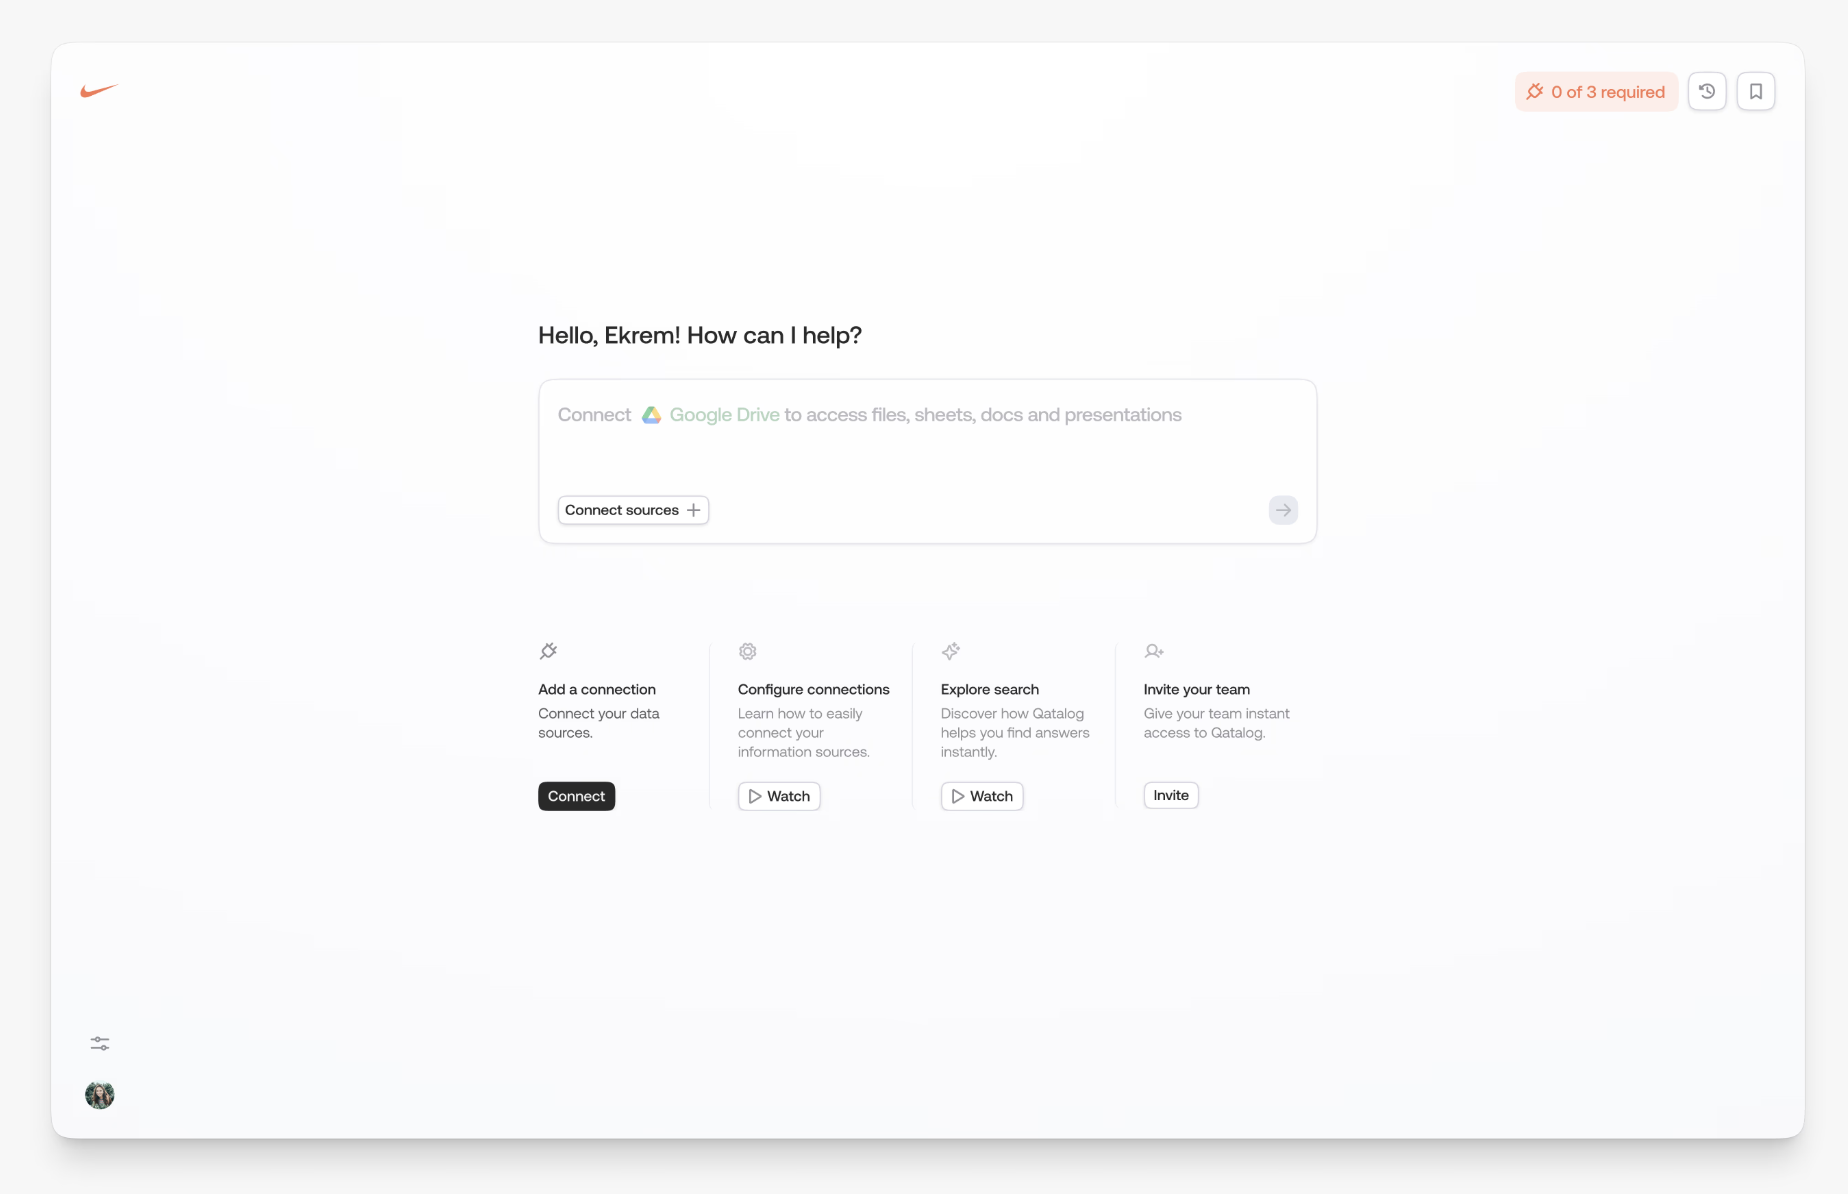
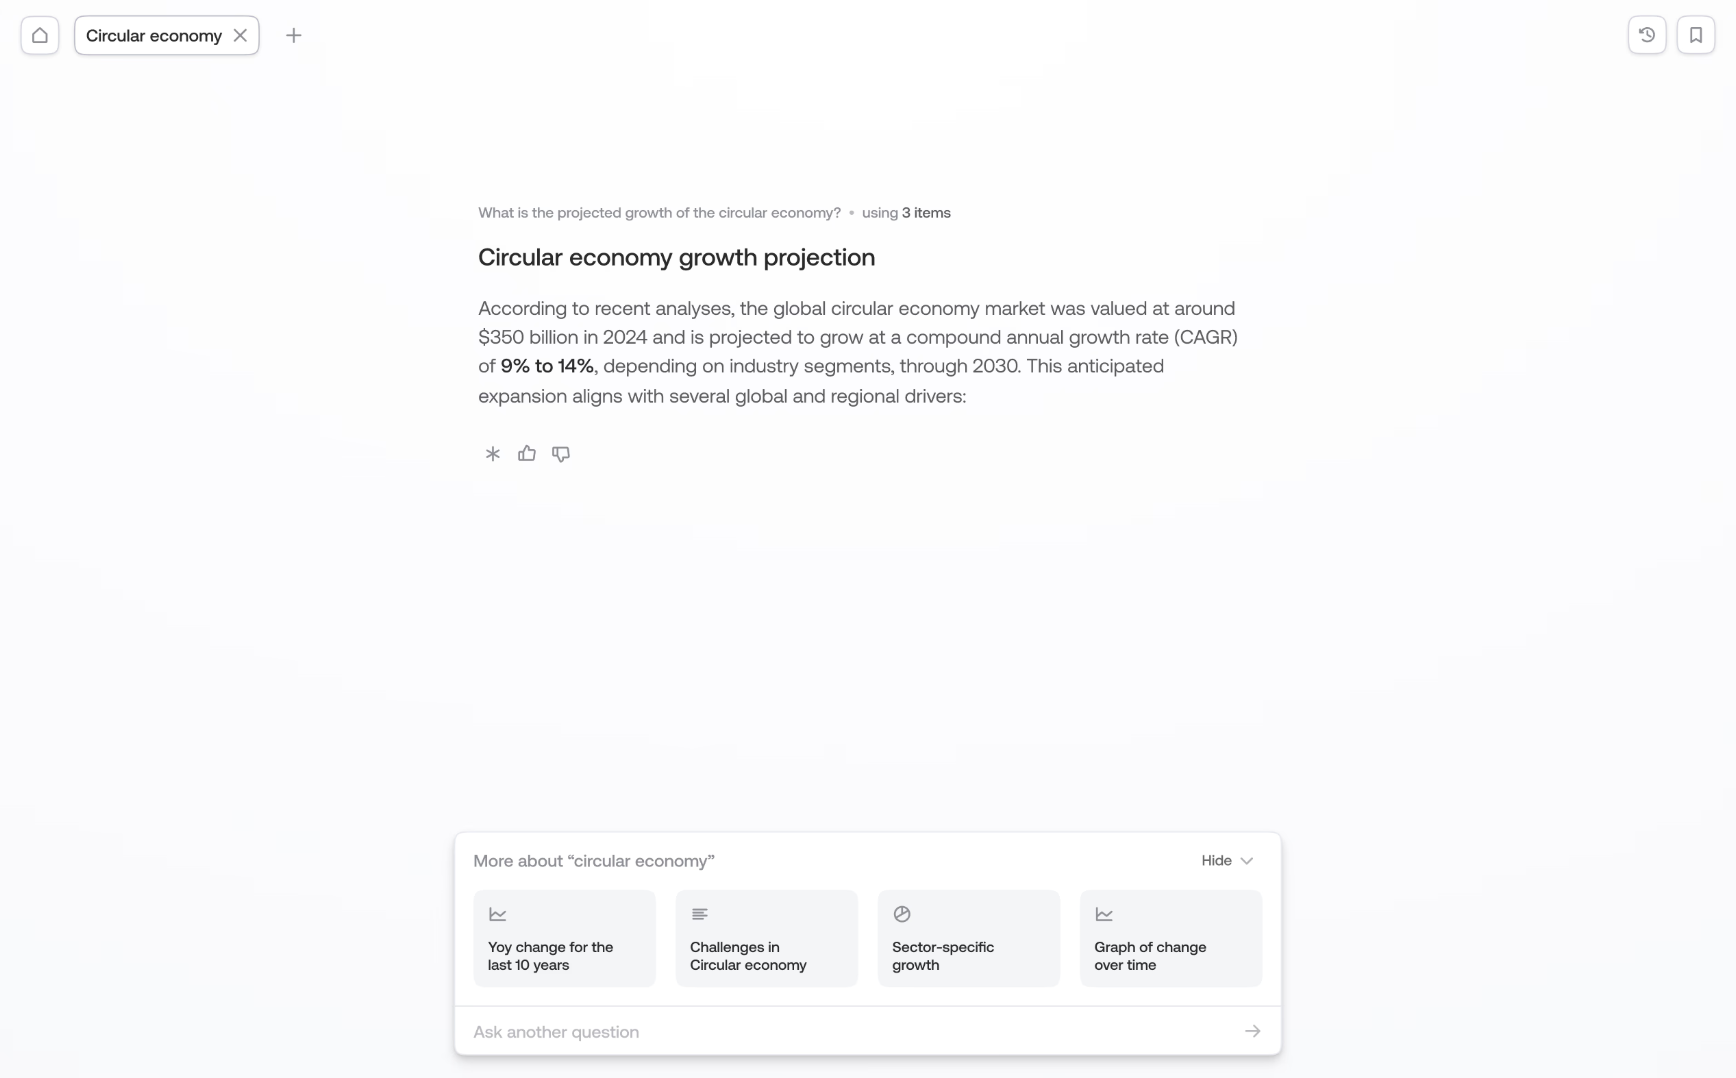
Update company thumbnails and add click-through links

diff --git a/script.js b/script.js
@@ -174,19 +174,19 @@ setActiveLink();
 revealStage(0);
 
 // ---- Cursor-following image on company hover --------------------------------
-// Drop real images at these paths (any format) to replace the placeholders.
+// Each company: a thumbnail shown on hover, and an optional URL opened on click.
 const COMPANIES = {
-  V7: "images/v7.png",
-  ClickUp: "images/clickup.png",
-  Qatalog: "images/qatalog.png",
-  Lyssna: "images/lyssna.png",
+  V7: { img: "images/v7.png", url: "https://www.v7labs.com/" },
+  ClickUp: { img: "images/clickup.png", url: "https://clickup.com/" },
+  Qatalog: { img: "images/qatalog.png", url: null },
+  Lyssna: { img: "images/lyssna.png", url: "https://www.lyssna.com/" },
 };
 
 // Floating layer holding one (preloaded) image per company.
 const media = document.createElement("div");
 media.className = "hover-media";
 media.setAttribute("aria-hidden", "true");
-Object.entries(COMPANIES).forEach(([key, src]) => {
+Object.entries(COMPANIES).forEach(([key, { img: src }]) => {
   const img = document.createElement("img");
   img.src = src;
   img.alt = "";
@@ -203,6 +203,8 @@ root.querySelectorAll(".word").forEach((w) => {
   w.dataset.company = key;
   w.addEventListener("mouseenter", () => setActiveCompany(key));
   w.addEventListener("mouseleave", () => setActiveCompany(null));
+  const { url } = COMPANIES[key];
+  if (url) w.addEventListener("click", () => window.open(url, "_blank", "noopener"));
 });
 
 let activeCompany = null;